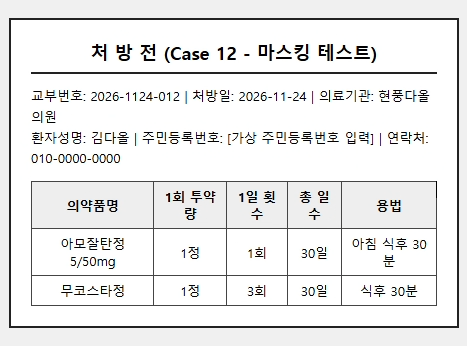
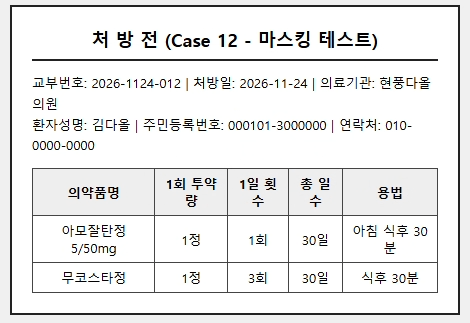
docs: 리뷰 필수 수정 4건 반영 (doc_type, pill_envelope, Case 12 이미지, 대조 기준 구분)

Changed region(s): [[0.0, 0.0, 0.9893, 0.9907], [0.1499, 0.5573, 0.2698, 0.6192], [0.8094, 0.5573, 0.8694, 0.6192]]

diff --git a/docs/test-prescriptions/README.md b/docs/test-prescriptions/README.md
@@ -4,10 +4,10 @@
 > 기준 스키마: `daol_API_명세서.md` 6장 `GET /scans/{scan_id}` & `POST /scans/{scan_id}/confirm` Request Body
 > 구성: 정상 6건 + 함정 4건 + 선택 확장 3건(약봉투 · 개인정보 마스킹 · 비경구약 거절)
 > 참고 사항:
-> - 본 문서의 `drug_id`(1001~1026)는 공공데이터(`drugs`) 적재 전 **예시 ID**입니다. 실제 테스트 비교 시에는 `drug_name`(`item_name`) 또는 품목기준코드 기준으로 대조해 주세요.
+> - 본 문서의 `drug_id`(1001~1024)는 공공데이터(`drugs`) 적재 전 **예시 ID**입니다. 실제 테스트 시 매칭 결과는 `drugs.item_name` 또는 품목기준코드로, 확정 Body의 `drug_name`은 처방전 원문 이름으로 대조해 주세요.
 > - 각 약품 항목의 `raw_text`는 `GET /scans/{scan_id}` 단계에서 추출·마스킹된 원문 줄이며, 표현 사전 테스트용으로 함께 기재했습니다.
 
-| 번호 | 구분 | 유형 | 문서 종류 | 이미지 | 약품 수 |
+| 번호 | 구분 | 유형 | 문서 종류 (`doc_type`) | 이미지 | 약품 수 |
 | --- | --- | --- | --- | --- | --- |
 | Case 01 | 정상 1 | 고혈압·이상지질혈증 정기 처방 | `prescription` | `./case01.png` | 2개 |
 | Case 02 | 정상 2 | 당뇨·위장보호 복합 처방 | `prescription` | `./case02.png` | 2개 |
@@ -19,14 +19,14 @@
 | Case 08 | 함정 2 | 공공데이터에 없는 약 이름 | `prescription` | `./case08.png` | 2개 |
 | Case 09 | 함정 3 | 비정상·오인식 용량 (`10정`) | `prescription` | `./case09.png` | 2개 |
 | Case 10 | 함정 4 | 마지막 줄 약 하나 빠짐 주의 처방 | `prescription` | `./case10.png` | 3개 |
-| Case 11 | 선택 1 | 약봉투(`pill_bag`) 포맷 인식 | `pill_bag` | `./case11.png` | 2개 |
+| Case 11 | 선택 1 | 약봉투(`pill_envelope`) 포맷 인식 | `pill_envelope` | `./case11.png` | 2개 |
 | Case 12 | 선택 2 | 가상 개인정보 마스킹(`mask_text()`) 확인 | `prescription` | `./case12.png` | 2개 |
 | Case 13 | 선택 3 | 비경구약(`is_oral: false`) 거절 확인 | `prescription` | `./case13.png` | 2개 |
 
 ---
 
 ## Case 01 [정상 1] 고혈압·이상지질혈증 정기 처방
-- **예시 이미지:** `./case01.png` (`document_type: "prescription"`)
+- **예시 이미지:** `./case01.png` (`doc_type: "prescription"`)
 - **약 목록 요약:**
   1. `아모잘탄정 5/50mg` | 1회 용량: `1정` | 1일 횟수: `1회` | 총 일수: `30일` | 복용 조건: `아침 식후 30분`
   2. `리바로정 2mg` | 1회 용량: `1정` | 1일 횟수: `1회` | 총 일수: `30일` | 복용 조건: `저녁 식후 30분`
@@ -80,7 +80,7 @@
 ---
 
 ## Case 02 [정상 2] 당뇨·위장보호 복합 처방
-- **예시 이미지:** `./case02.png` (`document_type: "prescription"`)
+- **예시 이미지:** `./case02.png` (`doc_type: "prescription"`)
 - **약 목록 요약:**
   1. `자누메트정 50/500mg` | 1회 용량: `1정` | 1일 횟수: `2회` | 총 일수: `30일` | 복용 조건: `아침·저녁 식후 30분`
   2. `알마겔정` | 1회 용량: `1정` | 1일 횟수: `3회` | 총 일수: `14일` | 복용 조건: `식후 30분`
@@ -137,7 +137,7 @@
 ---
 
 ## Case 03 [함정 1 — 끼니 안 적힌 1일 2회] 위장약 처방
-- **예시 이미지:** `./case03.png` (`document_type: "prescription"`)
+- **예시 이미지:** `./case03.png` (`doc_type: "prescription"`)
 - **함정 포인트:** `넥시움정 20mg`의 용법란에 끼니(아침/점심/저녁) 및 식전·식후 조건 없이 `1일 2회 복용`만 기재된 경우
 - **`GET /scans/{scan_id}` 단계(수정 전) 기대값:**
   - `drugs[0]` (`넥시움정 20mg`): `dosage.needs_confirm: true`, `dosage.doses: [{ "dose_no": 1, "meal": null, "timing": null, "offset_min": null }, { "dose_no": 2, "meal": null, "timing": null, "offset_min": null }]`
@@ -195,7 +195,7 @@
 ---
 
 ## Case 04 [정상 3] 급성 기관지염·감기 시럽·정제 처방
-- **예시 이미지:** `./case04.png` (`document_type: "prescription"`)
+- **예시 이미지:** `./case04.png` (`doc_type: "prescription"`)
 - **약 목록 요약:**
   1. `코대원포르테시럽` | 1회 용량: `20mL` | 1일 횟수: `3회` | 총 일수: `3일` | 복용 조건: `식후 30분`
   2. `펠루비정` | 1회 용량: `1정` | 1일 횟수: `3회` | 총 일수: `3일` | 복용 조건: `식후 30분`
@@ -274,7 +274,7 @@
 ---
 
 ## Case 05 [정상 4] 식전·취침 전 복용 조건 포함 처방
-- **예시 이미지:** `./case05.png` (`document_type: "prescription"`)
+- **예시 이미지:** `./case05.png` (`doc_type: "prescription"`)
 - **약 목록 요약:**
   1. `란스톤엘에프디티정 30mg` | 1회 용량: `1정` | 1일 횟수: `1회` | 총 일수: `14일` | 복용 조건: `아침 식전 30분`
   2. `모사프리드정 5mg` | 1회 용량: `1정` | 1일 횟수: `3회` | 총 일수: `14일` | 복용 조건: `식전 30분`
@@ -344,13 +344,14 @@
     ]
   }
   ```
--- **기대 동작:**
+- **기대 동작:**
   - `GET /scans/{scan_id}` 단계: `모사프리드정 5mg`는 DB에 제조사명이 붙어 등록되어 있으므로 `match.status: "candidates"`로 반환
   - 확정 후: `before_meal`(식전 30분) 및 `bedtime`(취침 전, `meal: null`) 조건 정상 매핑, `conditions_to_confirm: []`
+
 ---
 
 ## Case 06 [정상 5] 필요시(PRN) 복용 약 포함 처방
-- **예시 이미지:** `./case06.png` (`document_type: "prescription"`)
+- **예시 이미지:** `./case06.png` (`doc_type: "prescription"`)
 - **약 목록 요약:**
   1. `쎄레브렉스캡슐 200mg` | 1회 용량: `1캡슐` | 1일 횟수: `2회` | 총 일수: `7일` | 복용 조건: `아침·저녁 식후 30분`
   2. `타이레놀정 500mg` | 1회 용량: `1정` | 1일 횟수: `null` | 총 일수: `3일` | 복용 조건: `필요시 복용`
@@ -403,7 +404,7 @@
 ---
 
 ## Case 07 [정상 6] 만성질환 다제약물(4종) 복합 처방
-- **예시 이미지:** `./case07.png` (`document_type: "prescription"`)
+- **예시 이미지:** `./case07.png` (`doc_type: "prescription"`)
 - **약 목록 요약:**
   1. `노바스크정 5mg` | 1회 용량: `1정` | 1일 횟수: `1회` | 총 일수: `30일` | 복용 조건: `아침 식후 30분`
   2. `다이아벡스정 500mg` | 1회 용량: `1정` | 1일 횟수: `2회` | 총 일수: `30일` | 복용 조건: `아침·저녁 식후 즉시`
@@ -496,7 +497,7 @@
 ---
 
 ## Case 08 [함정 2 — 없는 약 이름] 공공데이터 미등록 약품 포함
-- **예시 이미지:** `./case08.png` (`document_type: "prescription"`)
+- **예시 이미지:** `./case08.png` (`doc_type: "prescription"`)
 - **함정 포인트:** 공공데이터(`drugs`) DB에 존재하지 않는 약품명(`다올비타플러스정`)이 포함된 경우
 - **`GET /scans/{scan_id}` 단계(수정 전) 기대값:**
   - `drugs[0]` (`다올비타플러스정`): `match.status: "none"`, `match.drug_id: null`
@@ -553,7 +554,7 @@
 ---
 
 ## Case 09 [함정 3 — 틀린 용량] 비정상·오인식 용량(`10정`) 포함
-- **예시 이미지:** `./case09.png` (`document_type: "prescription"`)
+- **예시 이미지:** `./case09.png` (`doc_type: "prescription"`)
 - **함정 포인트:** 처방전 이미지의 `타이레놀8시간이알서방정` 1회 투약량이 `10정`(오타 또는 OCR 오인식)으로 표기된 경우
 - **`GET /scans/{scan_id}` 단계(수정 전) 기대값:**
   - `drugs[0]` (`타이레놀8시간이알서방정`): 임의로 고치지 않고 원본 그대로 추출 → `dose_per_time: { "text": "10정", "min": 10, "max": 10, "unit": "정", "parsed": true }`
@@ -610,9 +611,9 @@
 ---
 
 ## Case 10 [함정 4 — 약 하나 빠짐] 마지막 줄 약 누락 주의 처방
-- **예시 이미지:** `./case10.png` (`document_type: "prescription"`)
+- **예시 이미지:** `./case10.png` (`doc_type: "prescription"`)
 - **함정 포인트:** 총 3개 약물 중 마지막 3번째 줄(`가스모틴정 5mg`)이 흐리게 인쇄되어 OCR·구조화 과정에서 누락되기 쉬운 경우
-- - **`GET /scans/{scan_id}` 단계(수정 전) 기대값:**
+- **`GET /scans/{scan_id}` 단계(수정 전) 기대값:**
   - 추출 줄 수 `3` (`drugs.length == 3` — 3줄 모두 추출되어야 함, OCR 누락 여부를 보는 케이스)
   - `트라젠타정 5mg`(DB 등록명: `트라젠타정(리나글립틴)`), `아토르바스타틴정 10mg`(제조사명 포함 등록)는 `match.status: "candidates"`로 반환
 - **확정 정답값 (`POST /scans/{scan_id}/confirm` Request Body & `raw_text` 기준):**
@@ -684,8 +685,8 @@
 
 ---
 
-## Case 11 [선택 1 — 약봉투] 조제봉투 포맷 인식 (`document_type: "pill_bag"`)
-- **예시 이미지:** `./case11.png` (`document_type: "pill_bag"`, API 명세서 6장 기준 약봉투 코드)
+## Case 11 [선택 1 — 약봉투] 조제봉투 포맷 인식 (`doc_type: "pill_envelope"`)
+- **예시 이미지:** `./case11.png` (`doc_type: "pill_envelope"`)
 - **약 목록 요약:**
   1. `세토펜정 325mg` | 1회 용량: `1정` | 1일 횟수: `3회` | 총 일수: `3일` | 복용 조건: `식후 30분`
   2. `베아제정` | 1회 용량: `1정` | 1일 횟수: `3회` | 총 일수: `3일` | 복용 조건: `식후 30분`
@@ -738,16 +739,16 @@
     ]
   }
   ```
-- **기대 동작:** `document_type: "pill_bag"` 업로드 시 조제약국명 및 약 목록 정상 추출·확정
+- **기대 동작:** `doc_type: "pill_envelope"` 업로드 시 조제약국명 및 약 목록 정상 추출·확정
 
 ---
 
 ## Case 12 [선택 2 — 개인정보 마스킹] 가상 주민번호·연락처 포함 (`mask_text()` 확인)
-- **예시 이미지:** `./case12.png` (`document_type: "prescription"`)
-- **테스트 포인트:** 이미지 상단에 가상 환자 성명, 가상 주민등록번호, 가상 연락처(`010-0000-0000`)가 포함된 경우 `mask_text()` 동작 검증
+- **예시 이미지:** `./case12.png` (`doc_type: "prescription"`)
+- **테스트 포인트:** 이미지 상단에 가상 환자 성명(`김다올`), 가상 주민등록번호(`000101-3000000`), 가상 연락처(`010-0000-0000`)가 포함된 경우 `mask_text()` 동작 검증
 - **`GET /scans/{scan_id}` 단계 기대값:**
   - `masked: true` 반환
-  - LLM 구조화 요청 전 `mask_text()`가 이름·주민등록번호·연락처를 마스킹 처리하여 전달하며, 추출된 `drugs[].raw_text` 및 확정 데이터에 개인정보가 남지 않음
+  - LLM 구조화 요청 전 `mask_text()`가 이름(`김다올`)·주민등록번호(`000101-3000000`)·연락처(`010-0000-0000`)를 마스킹 처리하여 전달하며, 추출된 `drugs[].raw_text` 및 확정 데이터에 개인정보가 남지 않음
 - **확정 정답값 (`POST /scans/{scan_id}/confirm` Request Body & `raw_text` 기준):**
   ```json
   {
@@ -799,7 +800,7 @@
 ---
 
 ## Case 13 [선택 3 — 비경구약 거절] 먹는 약이 아닌 약(`is_oral: false`) 포함
-- **예시 이미지:** `./case13.png` (`document_type: "prescription"`)
+- **예시 이미지:** `./case13.png` (`doc_type: "prescription"`)
 - **테스트 포인트:** 점안액(`히알유니점안액 0.15%`) 및 외용 연고(`에스로반연고`)처럼 먹는 약이 아닌 약품(`is_oral: false`)만 포함된 처방전
 - **약 목록 요약:**
   1. `히알유니점안액 0.15%` | 1회 용량: `1방울` | 1일 횟수: `4회` | 총 일수: `14일` | 용법: `양안 점안` (`is_oral: false`)
